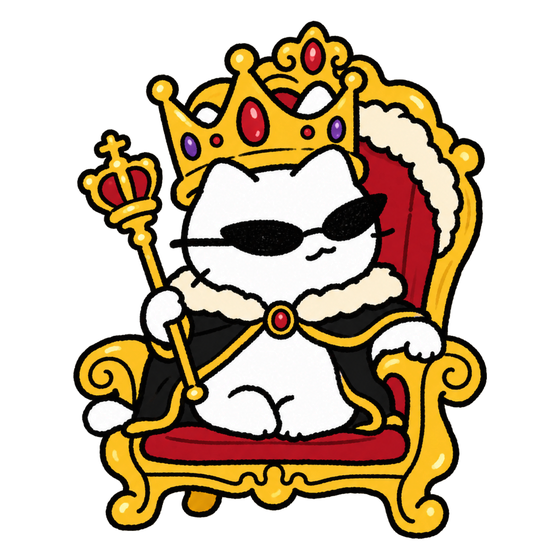
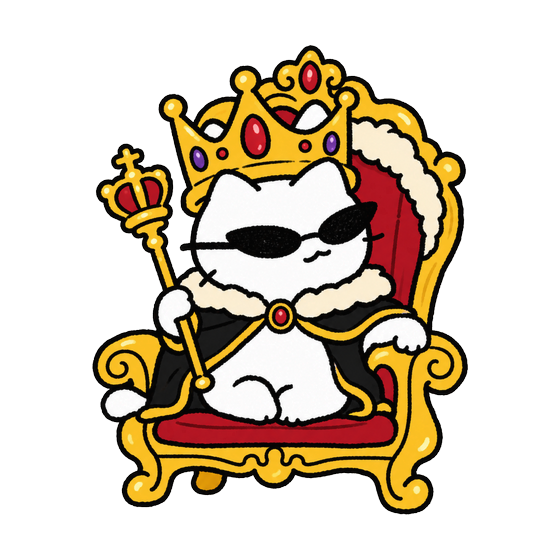
fix(frontend): 캐릭터·등급 크기 조정, 홈 화면 전환 옵션, 하단 빈 여백 제거
- 캐릭터를 v7 크기 기준으로 다섯 장 모두 같은 배율로 재정렬
- 등급 뱃지 높이 34→20px
- 상단 탭 '마이' → '마이페이지'
- 마이페이지에 기본 홈 / 캐릭터 홈 전환(선택 기억, 홈 탭이 선택한 화면으로 이동)
- 하단 탭바 안전영역 여백 제거(safeAreaInsets bottom 0, tabBar 숨김), body 배경색 지정

Claude-Session: https://claude.ai/code/session_01RXguEZhDei7zGqFtokxU3X

diff --git a/frontend/src/store/AppStore.tsx b/frontend/src/store/AppStore.tsx
@@ -24,6 +24,7 @@ import { addDays, diffDays, endOfWeek, startOfDay, startOfWeek, toKey } from '@/
 import { computeBudget, type BudgetInput, type BudgetSummary, type LargePlan, type ScheduledSpend } from './budget';
 
 type Income = { amount: number; payday: number };
+export type HomeStyle = 'classic' | 'character';
 export type NotifySettings = { morning: boolean; hour: number; minute: number; payment: boolean; plan: boolean; weekly: boolean };
 
 type Store = {
@@ -44,6 +45,10 @@ type Store = {
   updateTx: (id: string, patch: Partial<Pick<Transaction, 'excluded' | 'splitN' | 'memo' | 'category'>>) => void;
   /** 새 결제 수신 (시연: /demo/pay) — 서버가 카드/오픈뱅킹 알림을 받아 넣어주는 부분 */
   addTransaction: (t: Omit<Transaction, 'id' | 'status'> & { id?: string }) => void;
+
+  /** 홈 화면 스타일 — 기본(/) 또는 캐릭터(/home2) */
+  homeStyle: HomeStyle;
+  setHomeStyle: (h: HomeStyle) => void;
 
   notify: NotifySettings;
   setNotify: (n: NotifySettings) => void;
@@ -73,6 +78,23 @@ let seq = 100;
 const nextId = (p: string) => `${p}-${++seq}`;
 
 const ONBOARD_KEY = 'flexable:onboarded';
+const HOME_KEY = 'flexable:homeStyle';
+function readHomeStyle(): HomeStyle {
+  if (Platform.OS !== 'web') return 'classic';
+  try {
+    return globalThis.localStorage?.getItem(HOME_KEY) === 'character' ? 'character' : 'classic';
+  } catch {
+    return 'classic';
+  }
+}
+function writeHomeStyle(v: HomeStyle) {
+  if (Platform.OS !== 'web') return;
+  try {
+    globalThis.localStorage?.setItem(HOME_KEY, v);
+  } catch {
+    /* 저장 불가 환경은 무시 */
+  }
+}
 function readOnboarded(): boolean {
   if (Platform.OS !== 'web') return false;
   try {
@@ -149,6 +171,7 @@ export function AppStoreProvider({ children }: { children: ReactNode }) {
     { id: 'p1', title: '연말 콘서트 티켓', amount: 165000, weekStart: toKey(addDays(startOfWeek(today), 7 * 6)) },
   ]);
   const [memory, setMemory] = useState<MemoryItem[]>(DEFAULT_MEMORY);
+  const [homeStyle, setHomeStyleState] = useState<HomeStyle>(readHomeStyle);
   const [notify, setNotify] = useState<NotifySettings>({ morning: true, hour: 8, minute: 0, payment: true, plan: true, weekly: false });
   const [insights, setInsights] = useState<Insight[]>(DEFAULT_INSIGHTS);
 
@@ -190,6 +213,11 @@ export function AppStoreProvider({ children }: { children: ReactNode }) {
           if (prev.some((x) => x.id === id)) return prev; // 같은 결제 중복 수신 방지
           return [{ ...t, id, status: 'confirmed' as const }, ...prev];
         }),
+      homeStyle,
+      setHomeStyle: (h) => {
+        writeHomeStyle(h);
+        setHomeStyleState(h);
+      },
       notify,
       setNotify,
       scheduled,
@@ -223,7 +251,7 @@ export function AppStoreProvider({ children }: { children: ReactNode }) {
       budgetInput,
       summary: computeBudget(budgetInput),
     };
-  }, [today, onboarded, income, fixed, protectedList, transactions, scheduled, plans, memory, insights, notify]);
+  }, [today, onboarded, income, fixed, protectedList, transactions, scheduled, plans, memory, insights, notify, homeStyle]);
 
   return <Ctx.Provider value={value}>{children}</Ctx.Provider>;
 }

diff --git a/frontend/src/app/(tabs)/my.tsx b/frontend/src/app/(tabs)/my.tsx
@@ -4,7 +4,7 @@ import { router, type Href } from 'expo-router';
 import { useState } from 'react';
 import { Pressable, StyleSheet, Switch, View } from 'react-native';
 
-import { Button, Card, Chip, IconCircle, Screen, SectionTitle, Sheet, T } from '@/components/ui';
+import { Button, Card, Chip, IconCircle, Screen, SectionTitle, Segment, Sheet, T } from '@/components/ui';
 import { ACCOUNTS, USER } from '@/data/mock';
 import { useStore } from '@/store/AppStore';
 import { colors } from '@/theme';
@@ -12,7 +12,7 @@ import { md } from '@/utils/date';
 import { won } from '@/utils/format';
 
 export default function My() {
-  const { income, fixed, protectedList, summary, restartOnboarding, notify, setNotify } = useStore();
+  const { income, fixed, protectedList, summary, restartOnboarding, notify, setNotify, homeStyle, setHomeStyle } = useStore();
   const [timeOpen, setTimeOpen] = useState(false);
   const [hour, setHour] = useState(notify.hour);
   const [minute, setMinute] = useState(notify.minute);
@@ -89,6 +89,25 @@ export default function My() {
         <Menu label="고정지출" value={`${won(fixedTotal)}원`} sub={`${fixed.length}건 · 월세, 통신비, 구독 등`} href={{ pathname: '/onboarding/fixed', params: { edit: '1' } }} />
         <Menu label="보호 금액" value={`${won(protectedTotal)}원`} sub={protectedList.map((p) => p.name).join(', ')} href={{ pathname: '/onboarding/protect', params: { edit: '1' } }} />
         <Menu label="계산 근거 보기" sub={`오늘 하루 기준 ${won(summary.dailyLimit)}원`} href="/budget-detail" />
+      </Card>
+
+      {/* 홈 화면 스타일 (기본 ↔ 캐릭터) */}
+      <Card>
+        <SectionTitle title="홈 화면" />
+        <Segment
+          items={[
+            { key: 'classic', label: '기본 홈' },
+            { key: 'character', label: '캐릭터 홈' },
+          ]}
+          value={homeStyle}
+          onChange={(k) => {
+            setHomeStyle(k);
+            router.navigate(k === 'character' ? '/home2' : '/');
+          }}
+        />
+        <T size={12} color={colors.textMuted} style={{ marginTop: 10 }}>
+          상단 '홈' 탭을 누르면 선택한 화면으로 열려요
+        </T>
       </Card>
 
       {/* AI */}

diff --git a/frontend/src/components/AppHeader.tsx b/frontend/src/components/AppHeader.tsx
@@ -19,17 +19,18 @@ const TABS = [
   { href: '/', label: '홈', match: (p: string) => p === '/' || p.startsWith('/home2') },
   { href: '/plan', label: '지출계획', match: (p: string) => p.startsWith('/plan') },
   { href: '/analysis', label: '분석', match: (p: string) => p.startsWith('/analysis') || p.startsWith('/transactions') },
-  { href: '/my', label: '마이', match: (p: string) => p.startsWith('/my') },
+  { href: '/my', label: '마이페이지', match: (p: string) => p.startsWith('/my') },
 ] as const;
 
 export function AppHeader() {
   const pathname = usePathname();
-  const { scheduled, today } = useStore();
+  const { scheduled, today, homeStyle } = useStore();
+  const homeHref = homeStyle === 'character' ? '/home2' : '/';
   const pendingCount = scheduled.filter((x) => x.status === 'planned' && x.date < toKey(today)).length;
   return (
     <View style={styles.wrap}>
       <View style={styles.top}>
-        <Pressable style={styles.brand} onPress={() => router.navigate('/')}>
+        <Pressable style={styles.brand} onPress={() => router.navigate(homeHref)}>
           <Logo />
           <T size={18} weight="800">
             텅장관리
@@ -47,7 +48,7 @@ export function AppHeader() {
         {TABS.map((t) => {
           const on = t.match(pathname);
           return (
-            <Pressable key={t.href} style={styles.tab} onPress={() => router.navigate(t.href)}>
+            <Pressable key={t.href} style={styles.tab} onPress={() => router.navigate(t.href === '/' ? homeHref : t.href)}>
               <T size={15} weight={on ? '700' : '500'} color={on ? colors.text : colors.textMuted}>
                 {t.label}
               </T>

diff --git a/frontend/src/app/(tabs)/_layout.tsx b/frontend/src/app/(tabs)/_layout.tsx
@@ -16,7 +16,9 @@ export default function TabsLayout() {
       <Tabs
         tabBar={() => null}
         backBehavior="history"
-        screenOptions={{ headerShown: false, sceneStyle: { backgroundColor: colors.bg } }}
+        // 하단 탭바를 쓰지 않으므로 하단 안전영역(아이폰 홈바) 여백도 만들지 않는다
+        safeAreaInsets={{ bottom: 0 }}
+        screenOptions={{ headerShown: false, tabBarStyle: { display: 'none' }, sceneStyle: { backgroundColor: colors.bg } }}
       />
     </View>
   );

diff --git a/frontend/src/components/TierBadge.tsx b/frontend/src/components/TierBadge.tsx
@@ -9,7 +9,7 @@ export type Tier = 1 | 2 | 3 | 4 | 5;
 
 /** 캐릭터 그림체와 맞춘 진한 펜 선 */
 const INK = '#1B1B1B';
-const HEIGHT = 34;
+const HEIGHT = 20;
 
 type Spec = {
   vb: [number, number]; // viewBox 크기

diff --git a/frontend/public/index.html b/frontend/public/index.html
@@ -28,6 +28,7 @@
       html,
       body {
         height: 100%;
+        background-color: #F2F4F6;
       }
       body {
         overflow: hidden;
